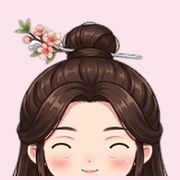
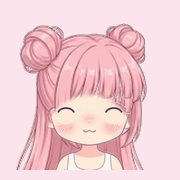
Restore original heart-eye character and hairstyles
Claude-Session: https://claude.ai/code/session_013rW3iWcCHnwjRq7oDHQ6Zj

diff --git a/index.html b/index.html
@@ -38,7 +38,7 @@
   .sheet button,#sheet button{margin-top:14px;width:100%;border:0;border-radius:14px;padding:12px;background:#f29bb4;color:#fff;font-size:16px;font-weight:700;}
 
   #stage{flex:1;min-height:0;display:flex;align-items:center;justify-content:center;padding:4px 0;}
-  #doll{position:relative;height:100%;aspect-ratio:400/600;max-width:92vw;border-radius:24px;transition:background .3s;}
+  #doll{position:relative;height:100%;aspect-ratio:339/610;max-width:92vw;border-radius:24px;transition:background .3s;}
   #doll{overflow:visible;touch-action:manipulation;cursor:pointer;}
   #char{position:absolute;left:0;top:3%;width:100%;height:97%;transform-origin:50% 100%;animation:breathe 3s ease-in-out infinite;}
   #char img{position:absolute;inset:0;width:100%;height:100%;object-fit:contain;pointer-events:none;user-select:none;-webkit-user-drag:none;}
@@ -87,9 +87,10 @@
   <div id="stage">
     <div id="doll">
       <div id="char">
+        <img id="L-hairBack" src="" alt="">
         <img id="L-base" src="img/base.png" alt="Q 版小人">
-        <img id="L-clothes" src="" alt="">
         <img id="L-face" src="img/face/blink.png" alt="">
+        <img id="L-hairFront" src="" alt="">
       </div>
       <div id="bubble"></div>
       <div id="hint">點點她、摸摸頭看看 ♡</div>
@@ -117,6 +118,13 @@
 <script>
 // ===== 素材清單：之後加新衣服、新髮型只要在這裡加一行 =====
 const CATS = [
+  { id: 'hair', name: '髮型', items: [
+      { id: 'none', name: '光頭' },
+      { id: 'h1', icon: 'img/hair/1_icon.png', back: 'img/hair/1_back.png', front: 'img/hair/1_front.png' },
+      { id: 'h2', icon: 'img/hair/2_icon.png', back: 'img/hair/2_back.png', front: 'img/hair/2_front.png' },
+      { id: 'h3', icon: 'img/hair/3_icon.png', back: 'img/hair/3_back.png', front: 'img/hair/3_front.png' },
+      { id: 'h4', icon: 'img/hair/4_icon.png', back: 'img/hair/4_back.png', front: 'img/hair/4_front.png' },
+  ]},
   { id: 'clothes', name: '衣服', soon: true, items: [] },
   { id: 'bg', name: '背景', items: [
       { id: 'pink', color: '#fbe4ec' }, { id: 'mint', color: '#d9f0e6' }, { id: 'sky', color: '#dcecfb' },
@@ -129,13 +137,16 @@ const store = {
   get(){ try { return JSON.parse(localStorage.getItem('dressup') || '{}'); } catch(e){ return {}; } },
   set(v){ try { localStorage.setItem('dressup', JSON.stringify(v)); } catch(e){} },
 };
-const pick = Object.assign({ bg: 'pink' }, store.get());
-let tab = 'bg';
+const pick = Object.assign({ hair: 'h1', bg: 'pink' }, store.get());
+let tab = 'hair';
 const $ = id => document.getElementById(id);
 
 function find(cat, id){ return CATS.find(c => c.id === cat).items.find(i => i.id === id); }
 
 function render(){
+  const h = find('hair', pick.hair) || {};
+  $('L-hairBack').src = h.back || '';
+  $('L-hairFront').src = h.front || '';
   $('doll').style.background = (find('bg', pick.bg) || {}).color || '#fbe4ec';
 
   $('tabs').innerHTML = '';
@@ -166,11 +177,11 @@ function render(){
 }
 
 $('save').onclick = async () => {
-  const W = 800, H = 1200, cv = document.createElement('canvas');
+  const W = 678, H = 1220, cv = document.createElement('canvas');
   cv.width = W; cv.height = H;
   const g = cv.getContext('2d');
   g.fillStyle = $('doll').style.background || '#fbe4ec'; g.fillRect(0, 0, W, H);
-  for (const id of ['L-base', 'L-clothes']) {
+  for (const id of ['L-hairBack', 'L-base', 'L-hairFront']) {
     const el = $(id);
     if (!el.getAttribute('src')) continue;
     await (el.complete ? Promise.resolve() : new Promise(r => el.onload = r));
@@ -195,9 +206,9 @@ $('save').onclick = async () => {
 const LINES = {
   head:  ['嘿嘿～', '好舒服～', '再摸一下嘛', '喜歡被摸頭♡', '呼嚕嚕～'],
   body:  ['好癢！', '哇！', '嘻嘻', '陪我玩～', '跳跳！'],
-  clothes: ['好看嗎？', '換新衣服囉！', '這件我喜歡～', '轉一圈給你看！'],
+  hair:  ['好看嗎？', '換新髮型囉！', '這個我喜歡～', '轉一圈給你看！'],
   bg:    ['這裡好漂亮～', '換個地方玩！', '哇～'],
-  idle:  ['在發呆嗎？', '點點我嘛～', '今天想穿什麼呢？', '摸摸我的頭嘛～'],
+  idle:  ['在發呆嗎？', '點點我嘛～', '今天想穿什麼呢？', '幫我換個髮型？'],
   many:  ['不要一直戳啦！', '好啦好啦～', '頭暈了…'],
 };
 const rnd = a => a[Math.floor(Math.random() * a.length)];
@@ -238,7 +249,7 @@ function react(kind, x, y){
   lastTouch = Date.now(); $('hint').style.opacity = 0;
   const r = doll.getBoundingClientRect();
   if (x === undefined){ x = r.width / 2; y = r.height * .3; }
-  if (kind === 'clothes'){ anim('spin'); setFace('happy', 1300); say(rnd(LINES.clothes)); burst(x, y, ['✦', '✧', '♡'], 8); }
+  if (kind === 'hair'){ anim('spin'); setFace('happy', 1300); say(rnd(LINES.hair)); burst(x, y, ['✦', '✧', '♡'], 8); }
   else if (kind === 'bg'){ anim('jump'); setFace('happy', 900); say(rnd(LINES.bg)); burst(x, y, ['✦', '✧'], 6); }
 }
 
@@ -249,7 +260,7 @@ doll.addEventListener('pointerdown', ev => {
   buzz(); lastTouch = Date.now(); $('hint').style.opacity = 0;
   taps = taps.filter(t => Date.now() - t < 2500); taps.push(Date.now());
   if (taps.length >= 6){ taps = []; anim('shy'); setFace('blink', 1200); say(rnd(LINES.many)); burst(x, y, ['💫', '✧'], 5); return; }
-  if (fy < .5){ anim('pat'); setFace('happy', 1200); say(rnd(LINES.head)); burst(x, y, ['♥', '♡', '❤'], 7); }
+  if (fy < .42){ anim('pat'); setFace('happy', 1200); say(rnd(LINES.head)); burst(x, y, ['♥', '♡', '❤'], 7); }
   else { anim('jump'); setFace('happy', 700); say(rnd(LINES.body)); burst(x, y, ['✦', '♪', '♡'], 6); }
 });
 

diff --git a/sw.js b/sw.js
@@ -1,7 +1,7 @@
 // 換裝小屋 Service Worker
 // 策略：有網路時一律先抓最新版（所以一更新就看得到），沒網路才用手機裡存的舊版。
 // 每次改檔案，把 VERSION +1，手機會自動換成新版。
-const VERSION = 10;
+const VERSION = 11;
 const CACHE = 'dressup-v' + VERSION;
 
 self.addEventListener('install', e => {

diff --git a/README.md b/README.md
@@ -7,16 +7,17 @@
 ## 給以後的 Claude：這個專案怎麼做的
 - 跟「喵喵小窩」（repo `b0966836079-afk/meow`）是**完全分開**的專案，不要混在一起。
 - 前端：純 HTML/CSS/JS，沒有打包工具，放在 GitHub Pages（main 分支根目錄）。
-- **主角（2026-11-01 換新）**：使用者用 AI 生成的 Q 版女孩（深棕長髮、頭頂髮髻、桃花簪、白色小背心裙）。頭髮是畫在角色身上的，所以**不能換髮型**（之前「素體＋另外套頭髮」的做法因為頭型不合，怎麼對都不自然，已放棄）。
-- 圖片素材在 `img/`，所有圖層都是同一個畫布 **400×600**：
-  - `img/base.png`：主角（原圖 188×284 去背後放大 2 倍、輕微銳化，放在 (12,20)）。
-  - `img/face/blink.png`、`happy.png`：閉眼／笑眼，蓋在眼睛上。眼睛中心：左 (149,267)、右 (252,267)，膚色 (252,229,211)。
-  - 疊放順序：base → clothes（之後的衣服）→ face。頭髮垂在手臂和身體兩側，之後做衣服要注意。
-- `index.html` 裡的 `CATS` 是素材清單（目前：衣服〔準備中〕、背景）。選擇存在 localStorage `dressup`。「存成照片」用 canvas 合成，手機走分享選單。
-- 互動：自然眨眼、點上半部＝摸頭（笑眼＋愛心）、點身體＝跳一下、換衣服＝轉圈、太久沒點會自己說話、連點 6 下會害羞。台詞在 `LINES`。
-- 素材來源：使用者用 ChatGPT / Gemini 生成，傳給 Claude 去背。要使用者「下載原圖」再傳，不要截圖。
-  - 去背：邊緣白色背景＋頭髮和手臂之間封閉的白色空隙也去掉（保留白色衣服），邊緣對白色反混色去白邊。
-  - 讓 AI 改圖時，提示詞要寫「直接編輯這張圖片，不要重畫新角色，保持同一張臉、身體、姿勢、大小、位置」，否則它會重畫一個新角色。
+- 圖片素材在 `img/`，**所有圖層都是同一個畫布 339×610**，疊上去就對齊：
+  - `img/base.png`：素體（含臉，無頭髮），透明背景。
+  - `img/hair/N_back.png`（在身體後面）、`N_front.png`（瀏海，蓋在臉上）、`N_icon.png`（選單小圖）。
+  - `img/face/blink.png`、`happy.png`：閉眼／笑眼表情，蓋在眼睛上（眨眼、被摸頭時用）。
+  - 疊放順序：hairBack → base →（之後的衣服）→ face → hairFront。
+- 互動（index.html 下半部）：自然眨眼、點頭部＝摸頭（笑眼＋愛心）、點身體＝跳一下、換髮型＝轉圈、太久沒點會自己說話、連點 6 下會害羞。台詞在 `LINES`。
+- `index.html` 裡的 `CATS` 是素材清單，加新髮型/衣服/背景只要加一行。選擇存在 localStorage `dressup`。「存成照片」用 canvas 合成下載。
+- 髮型對齊做法：把頭髮依「臉洞」中心和下緣對到素體的頭（頭中心 x=168、下巴 y=248，畫布座標）。back 層＝整頂頭髮放身體後面；front 層＝下巴以上的頭髮，臉部窗口＝臉部橢圓下半（cx168 cy222 rx64 ry56）＋上方每一欄在瀏海自己的髮尾切（限制在 y150～178 之間），所以瀏海保留原本的髮尾形狀、垂到睫毛上；瀏海下加淡陰影，頭頂沒蓋到的空隙用附近頭髮的紋理補。眼睛位置：左 (130,192)、右 (209,192)。
+- 素材來源：使用者用 ChatGPT / Gemini 之類的 AI 生成（同一張素體、只換衣服或頭髮），再傳給 Claude 去背、對齊。
+  - 去背做法：從邊緣 flood fill，遇到深色輪廓線停下（亮度門檻約 190），再只保留最大的連通區塊，邊緣輕微模糊。
+  - 要使用者「下載原圖」再傳，不要截圖（截圖太小會糊）；提示詞要寫「純白背景、完全相同的人物/姿勢/大小/位置」。
 
 ## 給以後的 Claude：使用者與合作方式
 - 使用者說繁體中文（台灣），用 Redmi（Android）手機。
@@ -24,6 +25,11 @@
 - 不要索取任何密碼或 secret key。
 - **版權**：repo 是公開的。不能放任何有版權的角色或別人的畫（例如魔道祖師的角色、官方圖、別人畫的素體或表情包），也不要做成原作角色的同款造型。角色和衣服都要原創；一般古風元素（漢服、髮簪、水墨山水等）可以用。
 - 改完用模擬手機（Playwright）測試，截圖給她看效果。
+
+## Claude 自己畫的頭髮（向量）
+- 第 4 款（深棕長髮＋髮髻＋桃花簪）是 Claude 用 SVG 照素體的頭直接畫的，原始檔在 `tools/hair4_front.svg`、`tools/hair4_back.svg`（畫布 339×610 座標）。
+- 做法：front＝頭頂＋瀏海＋兩側髮束（蓋住耳朵）＋髮髻＋飾品；back＝身體後面的長髮。用 Playwright 以 3 倍解析度轉 PNG 再縮小，front 再加瀏海陰影（front alpha 往下 4px、模糊 2px、只在皮膚上、透明度 0.45）。
+- 頭的位置：頭頂 y≈75、頭中心 x=168、太陽穴寬 x 90～246、下巴 y=248、眼睛上緣 y≈172（瀏海髮尾停在 y≈170～186）。
 
 ## App（PWA）與自動更新
 - `manifest.webmanifest` + `icons/`：可以「加到主畫面」像 App 一樣打開。右上角「下載 App」按鈕：Android Chrome 會直接跳安裝；iPhone 顯示 Safari 加入主畫面的步驟。
